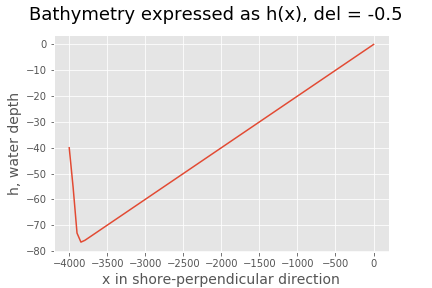
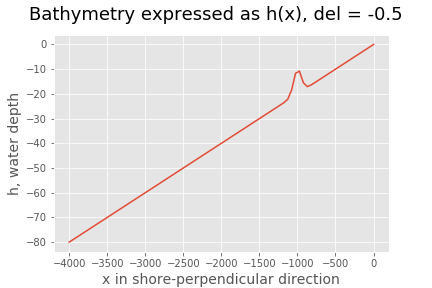
Changed xo to equal -1000

diff --git a/Problem_Set_4.md b/Problem_Set_4.md
@@ -256,9 +256,9 @@ del_pos = 0.5
 del_neg = -0.5
 lmbda = 5000 #m
 T = 10 #s
-xo = -4000 #m
+xo = -1000 #m
 
-length = abs(xo/del_x)
+length = abs(4000/del_x)
 print(length)
 length_init = int(length - 1)
 # Need to initalize all the values
@@ -335,16 +335,21 @@ def bathymetry_wave(_del):
         #print(stop-start)
     return k, del_y, y, alpha, cg, b, a
 
-# del = 0 condition
 xplot = np.linspace(-4000, 1, num = 79)
-plt.plot(xplot, bathymetry_wave(del_zero)[2])
+
+# del = 0 condition
+
+y_zero = bathymetry_wave(del_zero)[2]
+plt.plot(xplot, y_zero)
 plt.xlabel('x in shore-perpendicular direction', fontsize=14)
 plt.ylabel('y in alongshore direction', fontsize=14)
 plt.suptitle('Waveray from deep water to shoreline, del = 0', fontsize=18)
 plt.savefig('waveraydelzero.png')
 plt.show()
 
-plt.plot(xplot, bathymetry_wave(del_zero)[6])
+
+a_zero = bathymetry_wave(del_zero)[6]
+plt.plot(xplot, a_zero)
 plt.xlabel('x in shore-perpendicular direction', fontsize=14)
 plt.ylabel('wave amplitude along wave ray', fontsize=14)
 plt.suptitle('Wave amplitude from deep water to shoreline, del = 0', fontsize=18)
@@ -352,15 +357,16 @@ plt.savefig('waveampdelzero.png')
 plt.show()
 
 # del = 0.5 condition
-xplot = np.linspace(-4000, 1, num = 79)
-plt.plot(xplot, bathymetry_wave(del_pos)[2])
+y_pos = bathymetry_wave(del_pos)[2]
+plt.plot(xplot, y_pos)
 plt.xlabel('x in shore-perpendicular direction', fontsize=14)
 plt.ylabel('y in alongshore direction', fontsize=14)
 plt.suptitle('Waveray from deep water to shoreline, del = 0.5', fontsize=18)
 plt.savefig('waveraydelpos.png')
 plt.show()
 
-plt.plot(xplot, bathymetry_wave(del_pos)[6])
+a_pos = bathymetry_wave(del_pos)[6]
+plt.plot(xplot, a_pos)
 plt.xlabel('x in shore-perpendicular direction', fontsize=14)
 plt.ylabel('wave amplitude along wave ray', fontsize=14)
 plt.suptitle('Wave amplitude from deep water to shoreline, del = 0.5', fontsize=18)
@@ -368,15 +374,16 @@ plt.savefig('waveampdelpos.png')
 plt.show()
 
 # del = -0.5 condition
-xplot = np.linspace(-4000, 1, num = 79)
-plt.plot(xplot, bathymetry_wave(del_neg)[2])
+y_neg = bathymetry_wave(del_neg)[2]
+plt.plot(xplot, y_neg)
 plt.xlabel('x in shore-perpendicular direction', fontsize=14)
 plt.ylabel('y in alongshore direction', fontsize=14)
 plt.suptitle('Waveray from deep water to shoreline, del = -0.5', fontsize=18)
 plt.savefig('waveraydelneg.png')
 plt.show()
 
-plt.plot(xplot, bathymetry_wave(del_neg)[6])
+a_neg = bathymetry_wave(del_neg)[6]
+plt.plot(xplot, a_neg)
 plt.xlabel('x in shore-perpendicular direction', fontsize=14)
 plt.ylabel('wave amplitude along wave ray', fontsize=14)
 plt.suptitle('Wave amplitude from deep water to shoreline, del = -0.5', fontsize=18)
